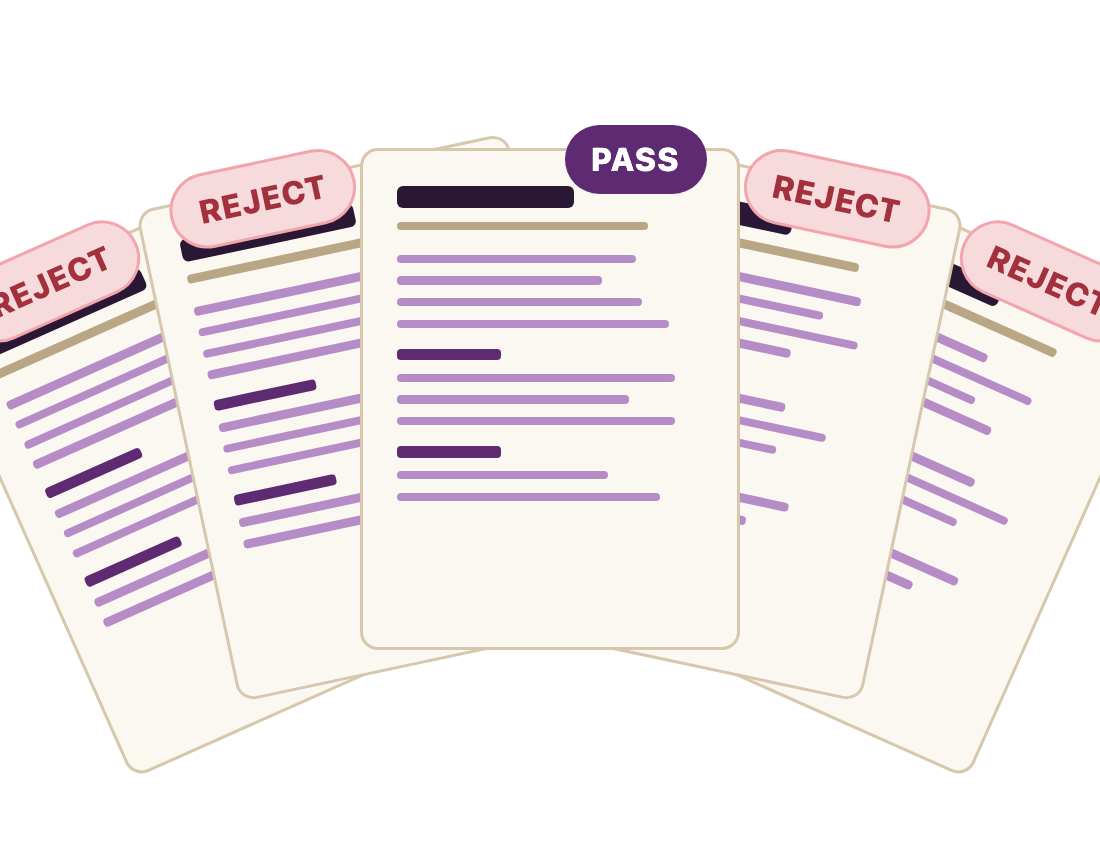
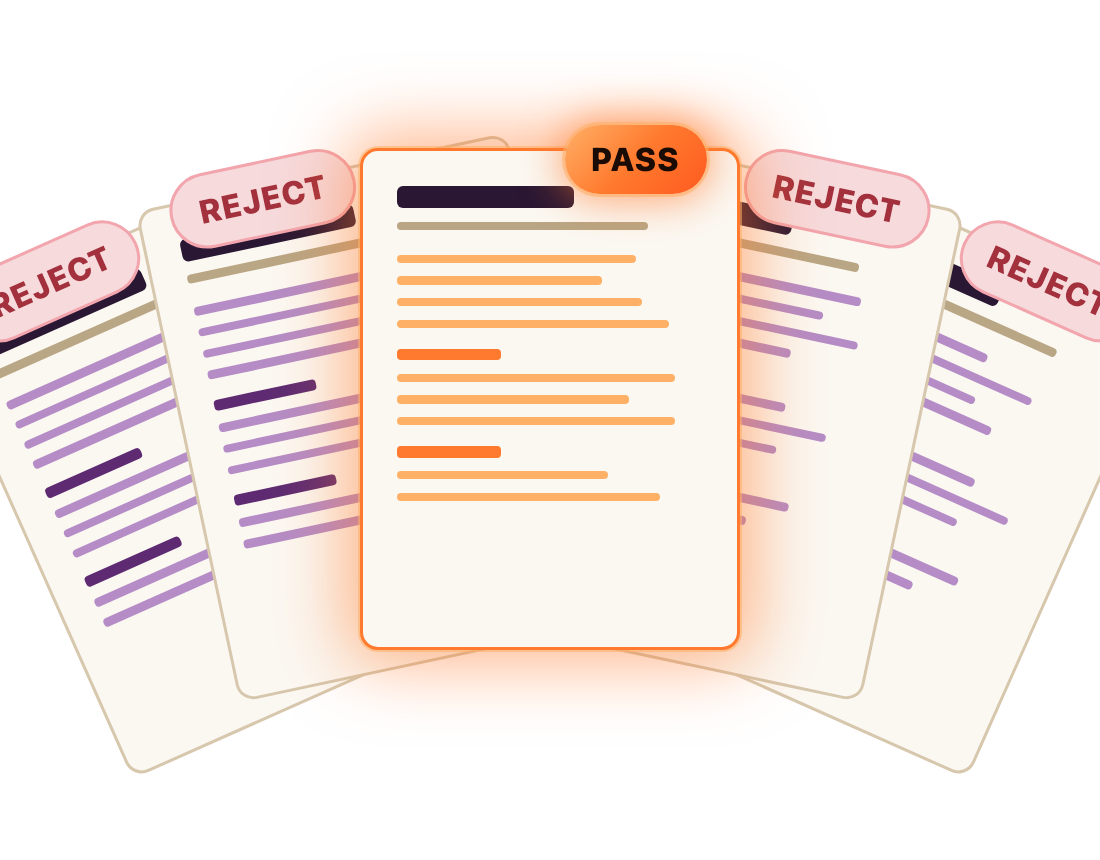
feat(landing): light the winning sheet in the hero art
The PASS sheet gets a tangerine border, amber lines and a glow, so its light breaks into particles too; the PASS pill is a lit gradient.

Changed region(s): [[0.2782, 0.0907, 0.7109, 0.8163]]

diff --git a/scripts/hero-art/art.html b/scripts/hero-art/art.html
@@ -18,7 +18,12 @@
     border-radius: 999px; font-weight: 800; letter-spacing: .04em; font-size: calc(var(--sw) * 0.085); }
   .left { right: auto; left: calc(var(--sw) * 0.08); }
   .reject { background: var(--berry-100); color: var(--berry-700); border: 3px solid var(--berry-300); }
-  .pass { background: var(--plum-600); color: var(--white); }
+  .pass { background: linear-gradient(135deg, var(--amber-300), var(--tangerine-glow) 50%, var(--flame-600)); color: var(--ember-ink);
+    box-shadow: 0 0 0 3px rgb(255 176 103 / 0.6), 0 0 40px 6px rgb(255 122 46 / 0.65); }
+  /* The sheet that passed: lit tangerine, so its glow turns to particles too. */
+  .winner { border-color: var(--tangerine-glow); box-shadow: 0 0 0 2px rgb(255 176 103 / 0.55), 0 0 70px 14px rgb(255 122 46 / 0.55); }
+  .winner .rule { background: var(--tangerine-glow); }
+  .winner .line { background: var(--amber-300); }
 </style>
 <body>
 <script>
@@ -35,7 +40,7 @@
   for (let i = 0; i < n; i++) {
     const mid = (n - 1) / 2;
     const s = document.createElement("div");
-    s.className = "sheet";
+    s.className = i === mid ? "sheet winner" : "sheet";
     s.style.transform = `rotate(${(i - mid) * spread}deg)`;
     s.style.zIndex = String(10 - Math.abs(i - mid));
     let html = `<span class="verdict ${i === mid ? "pass" : i < mid ? "reject left" : "reject"}">${i === mid ? "PASS" : "REJECT"}</span><div class="name"></div><div class="contact"></div>`;
